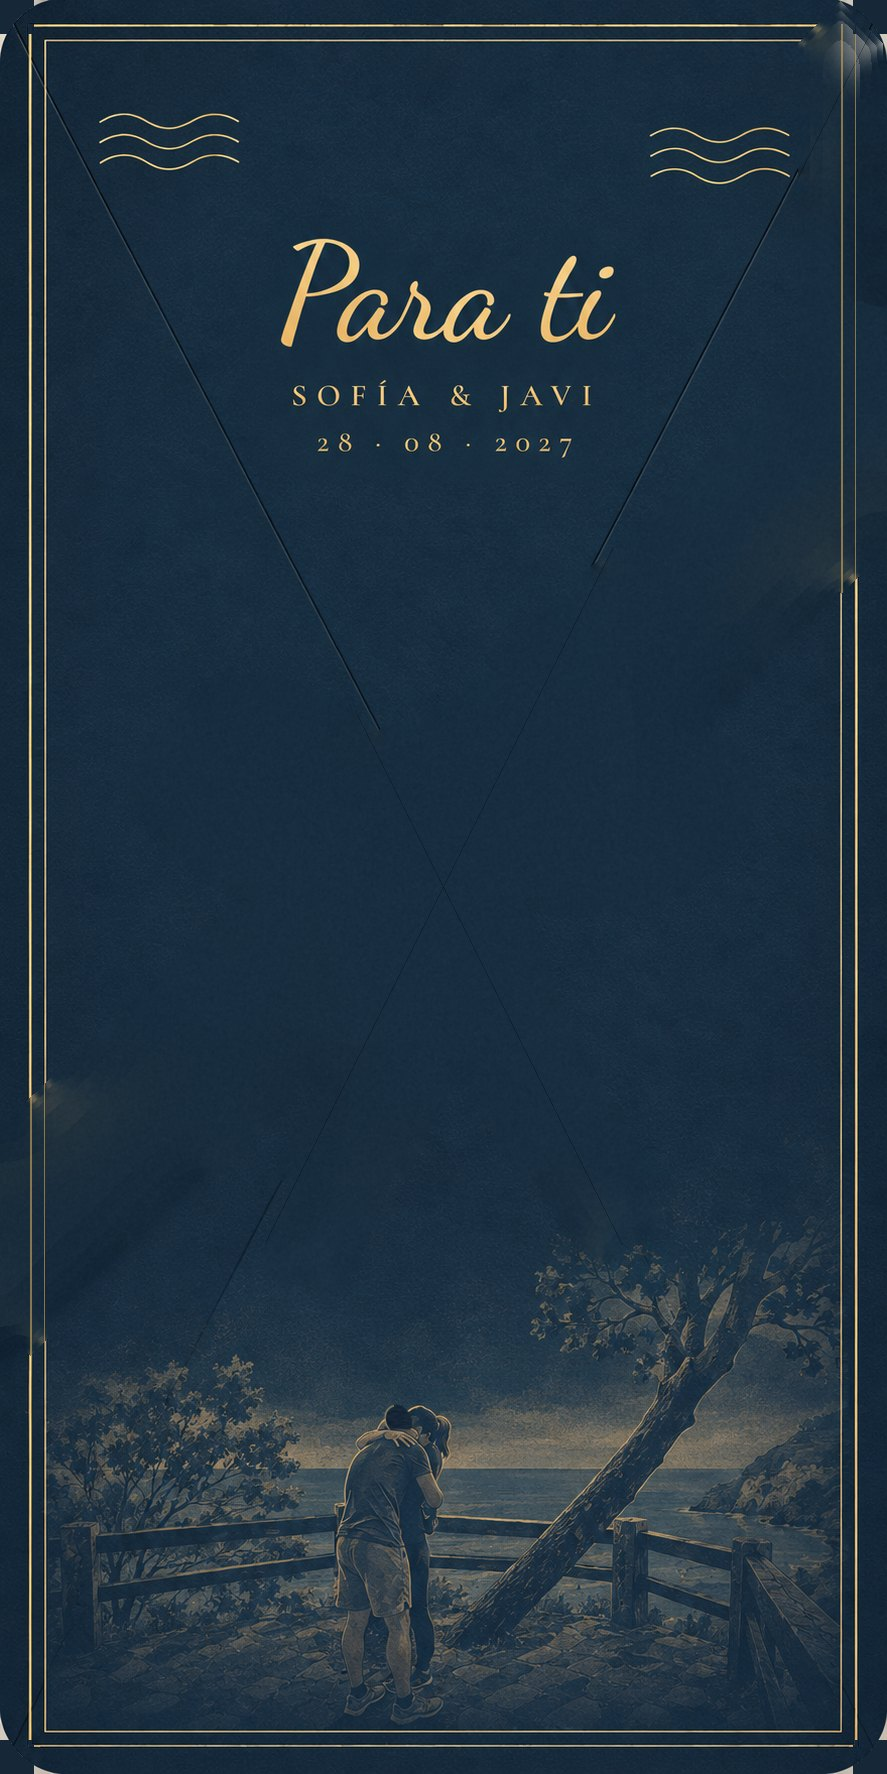
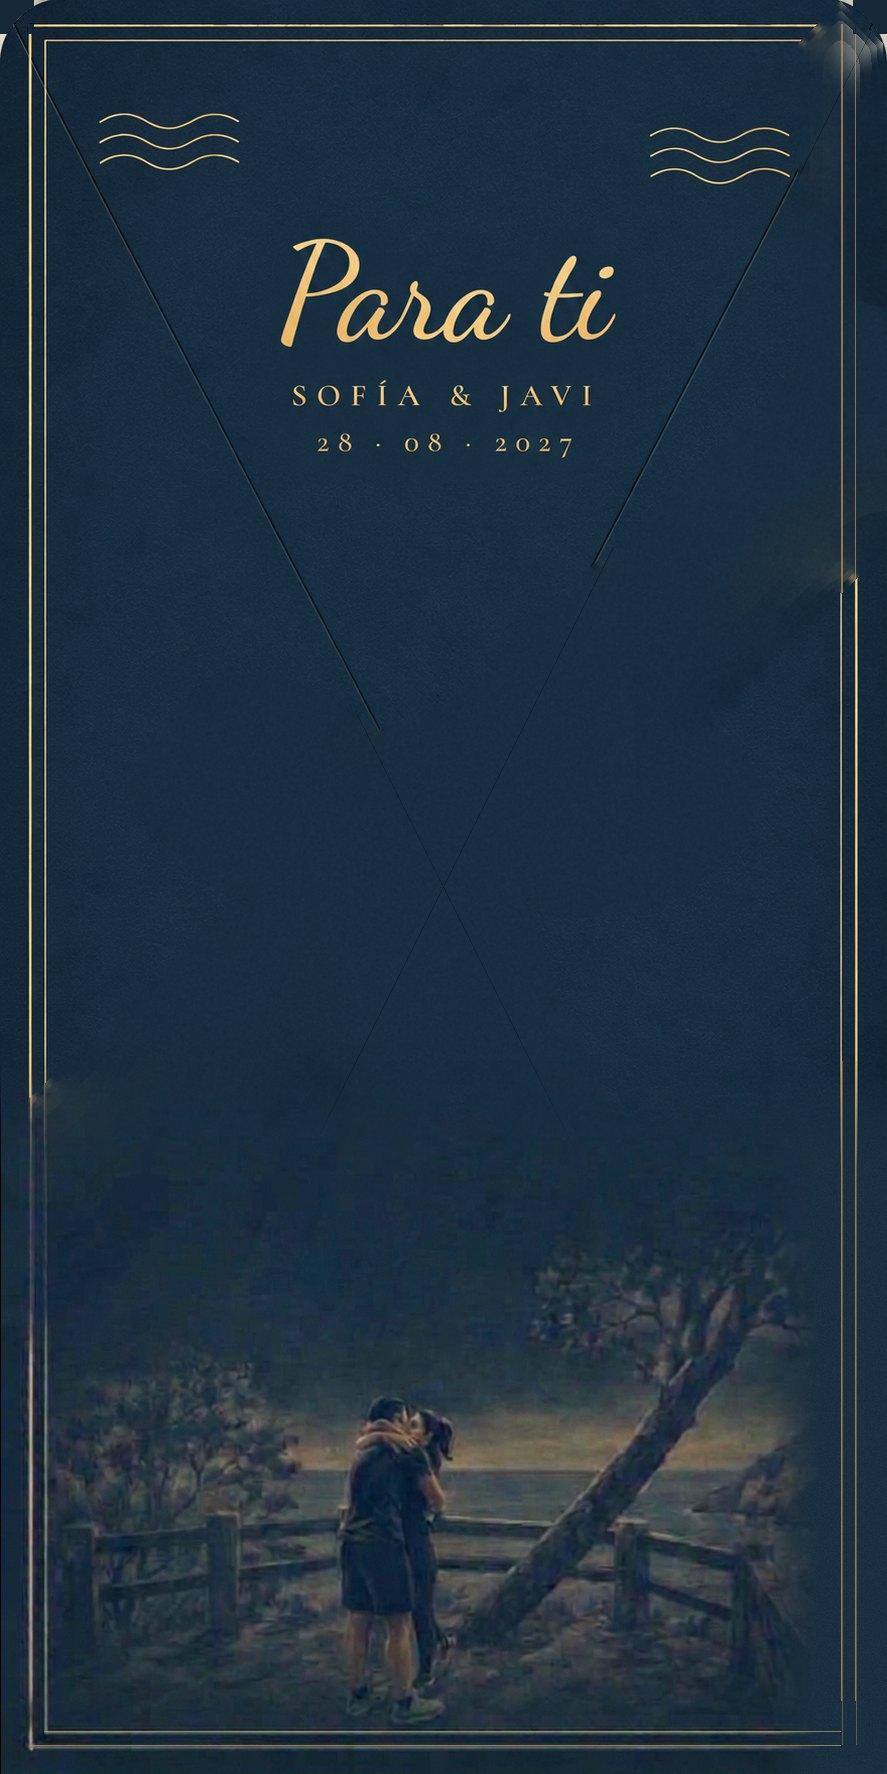
Sobre: fondo con el beso, sello rosa y nudo que se deshace poco a poco
- Ilustración inferior cambiada por la del beso
- La lazada se desata en 16 fotogramas (se recoge un lazo, luego el otro, se afloja
  el nudo) y después cordel y puntas se retiran hacia abajo

Claude-Session: https://claude.ai/code/session_01PRGUqaakqaCE54LNyAMwaz

Changed region(s): [[0.0304, 0.6201, 0.9741, 1.0], [0.6697, 0.7441, 0.7001, 0.7751], [0.6088, 0.7131, 0.6392, 0.7441]]

diff --git a/css/propuesta.css b/css/propuesta.css
@@ -36,7 +36,7 @@
 
 /* ---------- SOBRE DE APERTURA ----------
    Ilustración azul y oro (img/sobre-fondo.jpg) repartida en 4 solapas, con la cinta,
-   el cordel (img/sobre-cuerda-*.webp) y la lazada (img/sobre-lazo.webp) como piezas aparte. Medidas en % del original 887×1774.
+   el cordel (img/sobre-cuerda-*.webp) y la lazada (img/sobre-lazo-desata.webp, 16 fotogramas) como piezas aparte. Medidas en % del original 887×1774.
    Secuencia: salta el sello → se deshace la lazada → se retiran las cintas → se abren las solapas. */
 body.con-sobre { overflow: hidden; }
 .sobre {
@@ -91,8 +91,8 @@ body.con-sobre { overflow: hidden; }
 .sobre__carta::before { content: ""; position: absolute; inset: 0; z-index: -1; background: #f5ede1 var(--textura-papel); filter: url(#borde-rasgado) drop-shadow(0 8px 18px rgba(0, 0, 0, .35)); }
 .sobre__carta span { color: var(--color-tinta); font: 500 clamp(30px, 9vw, 44px)/1 var(--fuente-manuscrita); opacity: 0; transition: opacity 1s ease .4s; }
 .pieza--lazo { left: -0.5%; top: 37.7%; width: 45%; height: 22.5%; z-index: 6; }
-.pieza--lazo-a { clip-path: inset(0 50% 0 0); transform-origin: 50% 43.3%; }
-.pieza--lazo-b { clip-path: inset(0 0 0 50%); transform-origin: 50% 43.3%; }
+.pieza--lazo { background: url("../img/sobre-lazo-desata.webp") 0 0 / 1600% 100% no-repeat; }
+@keyframes desatar { to { background-position: 100% 0; } }
 /* Sello de lacre sobre el nudo */
 .pieza--sello {
   left: 12.5%; top: 41.75%; width: 19%; height: 9.5%; z-index: 7;
@@ -113,15 +113,14 @@ body.con-sobre { overflow: hidden; }
 .sobre__saltar { position: absolute; z-index: 9; top: 12px; right: 12px; padding: 6px 12px; border: 0; background: none; color: #cfb98a; font: 500 13px var(--fuente-texto); text-decoration: underline; text-underline-offset: 3px; cursor: pointer; transition: opacity .3s; }
 
 /* Secuencia lenta, por trozos (clases que añade js/propuesta.js):
-   1 salta el sello → 2 lazada se desvanece y cintas se retiran → 3 solapa de arriba → 4 laterales → 5 abajo → 6 la tarjeta se acerca → 7 fundido */
+   1 salta el sello → 2 el nudo se deshace → 2b cordel y puntas se retiran y cintas se retiran → 3 solapa de arriba → 4 laterales → 5 abajo → 6 la tarjeta se acerca → 7 fundido */
 .sobre.paso1 .pieza--sello { animation: none; transform: translateY(-14%) scale(1.12); opacity: 0; transition: transform .9s ease, opacity .8s ease .1s; }
 .sobre.paso1 .sobre__pista, .sobre.paso1 .sobre__saltar { animation: none; opacity: 0; }
-.sobre.paso2 .pieza--lazo { opacity: 0; transition: transform 1.6s ease, opacity 1.4s ease; }
-.sobre.paso2 .pieza--lazo-a { transform: translate(-6%, -2%) rotate(-8deg) scale(1.04); }
-.sobre.paso2 .pieza--lazo-b { transform: translate(6%, -2%) rotate(8deg) scale(1.04); }
-/* el cordel se retira deslizándose hacia abajo */
-.sobre.paso2 .pieza--cinta { transition: transform 1.7s cubic-bezier(.6, 0, .4, 1) .5s, opacity .6s ease 1.6s; opacity: 0; }
-.sobre.paso2 .pieza--cinta-v { transform: translateY(105%); transition-delay: .6s, 1.7s; }
+/* 2 · el nudo se deshace poco a poco, como si se tirara de una punta */
+.sobre.paso2 .pieza--lazo { animation: desatar 2.2s steps(15) forwards; }
+/* 2b · las puntas sueltas caen con el cordel, que se retira deslizándose hacia abajo */
+.sobre.pasoC .pieza--lazo { transform: translateY(40%); opacity: 0; transition: transform 1.3s cubic-bezier(.6, 0, .4, 1), opacity 1s ease .3s; }
+.sobre.pasoC .pieza--cinta { transform: translateY(105%); opacity: 0; transition: transform 1.4s cubic-bezier(.6, 0, .4, 1), opacity .5s ease 1s; }
 .sobre.paso3 { background: transparent; }
 .sobre.paso3 .solapa--arr { transform: rotateX(180deg); }
 .sobre.paso4 .solapa--izq { transform: rotateY(180deg); }

diff --git a/index.html b/index.html
@@ -54,9 +54,8 @@
       <!-- Cordel de yute atado en cruz, centrado -->
       <img class="pieza pieza--cinta pieza--cinta-v" src="img/sobre-cuerda-v.webp" alt="" aria-hidden="true">
       <img class="pieza pieza--cinta pieza--cinta-h" src="img/sobre-cuerda-h.webp" alt="" aria-hidden="true">
-      <!-- Lazada en dos mitades que se deshacen; el sello va sobre el nudo y se toca para abrir -->
-      <img class="pieza pieza--lazo pieza--lazo-a" src="img/sobre-lazo.webp" alt="" aria-hidden="true">
-      <img class="pieza pieza--lazo pieza--lazo-b" src="img/sobre-lazo.webp" alt="" aria-hidden="true">
+      <!-- Lazada: tira de 16 fotogramas en la que el nudo se deshace; el sello va encima y se toca para abrir -->
+      <div class="pieza pieza--lazo" aria-hidden="true"></div>
       <button id="sobre-sello" class="pieza pieza--sello" type="button" aria-label="Abrir la invitación">
         <img src="img/sobre-sello.webp" alt="">
       </button>

diff --git a/js/propuesta.js b/js/propuesta.js
@@ -31,10 +31,10 @@
       if (sobre.dataset.abriendo) return;
       sobre.dataset.abriendo = "si";
       if (sinMovimiento) return cerrar();
-      // sello → lazada → cintas → solapas laterales → arriba/abajo → fundido
-      const pasos = [["paso1", 0], ["paso2", 500], ["paso3", 3000], ["paso4", 4300], ["paso5", 5500], ["paso6", 7000], ["paso7", 8300]];
+      // sello → se deshace el nudo → se retira el cordel → solapas → la tarjeta se acerca → fundido
+      const pasos = [["paso1", 0], ["paso2", 500], ["pasoC", 2850], ["paso3", 4000], ["paso4", 5200], ["paso5", 6300], ["paso6", 7700], ["paso7", 9000]];
       pasos.forEach(([clase, ms]) => setTimeout(() => sobre.classList.add(clase), ms));
-      setTimeout(cerrar, 9100);
+      setTimeout(cerrar, 9800);
     };
     $("#sobre-sello").addEventListener("click", abrir);
     $("#sobre-saltar").addEventListener("click", cerrar);
